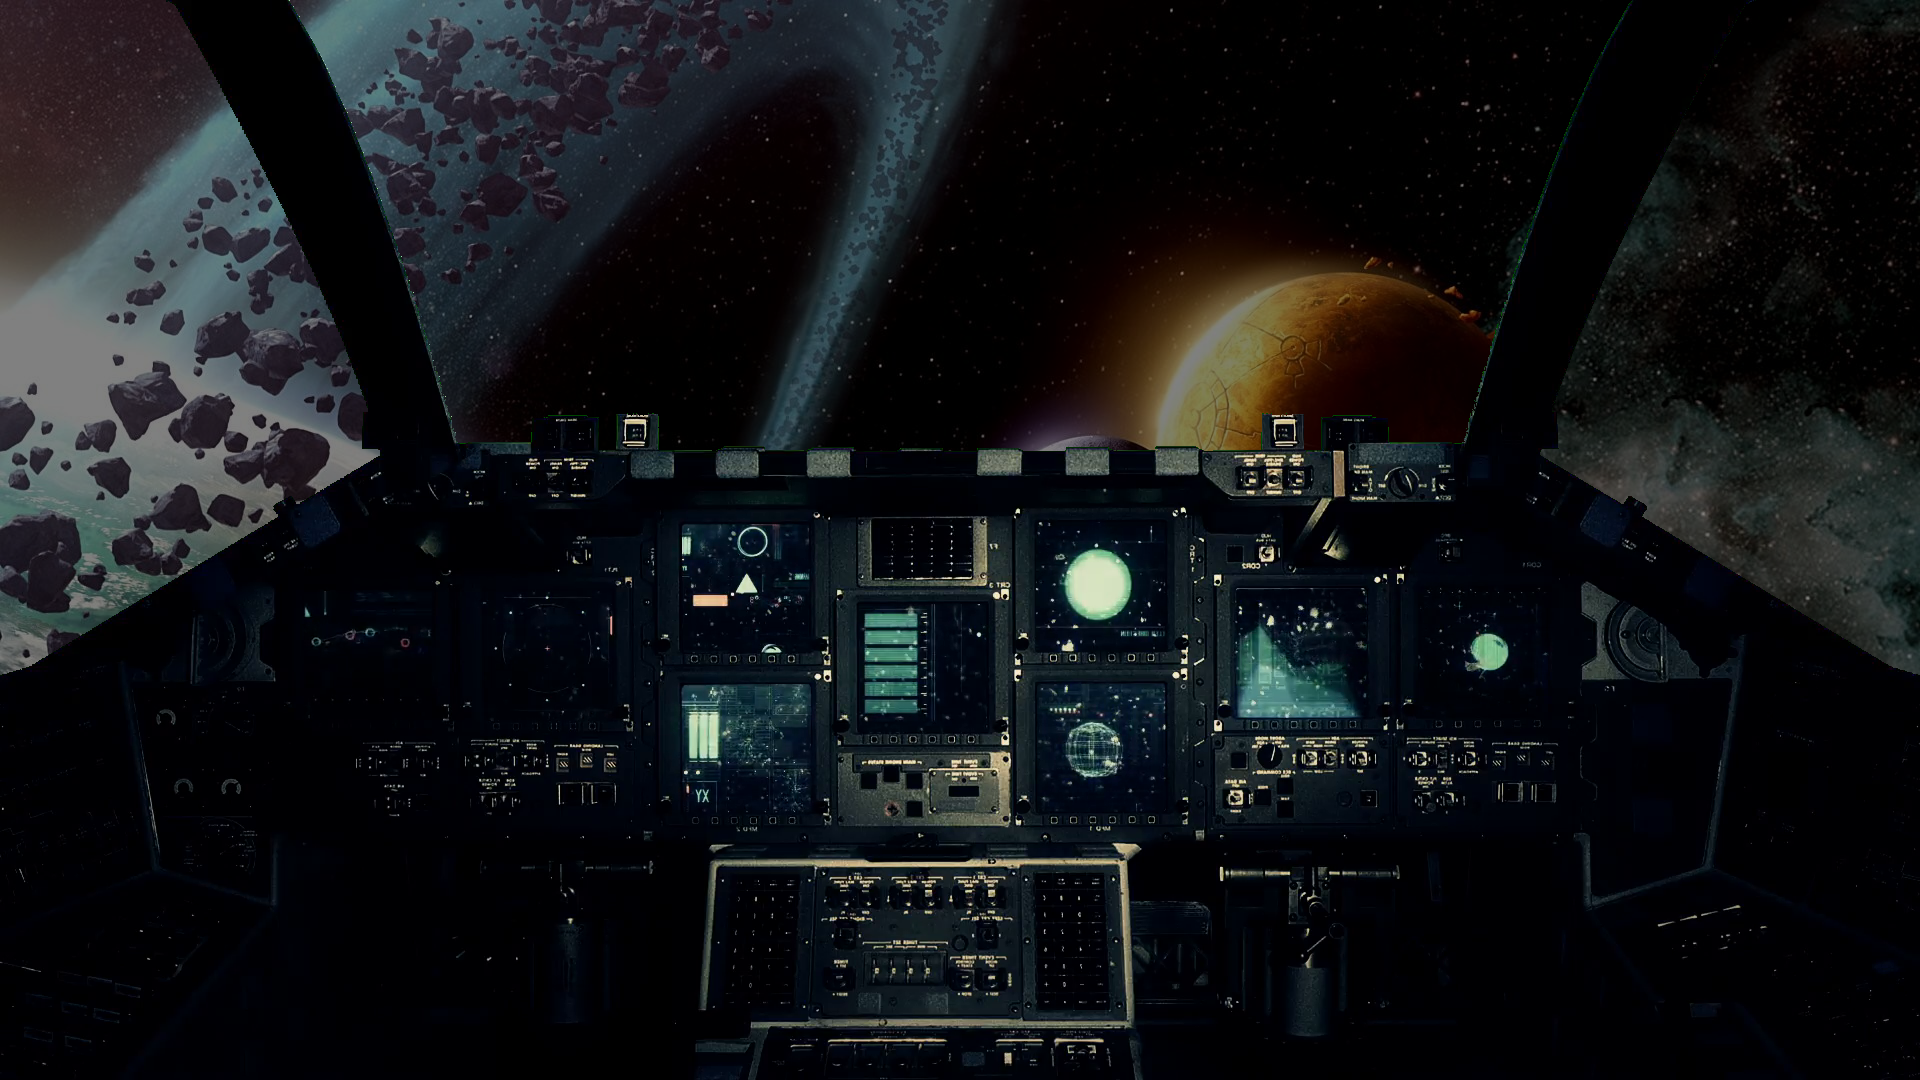
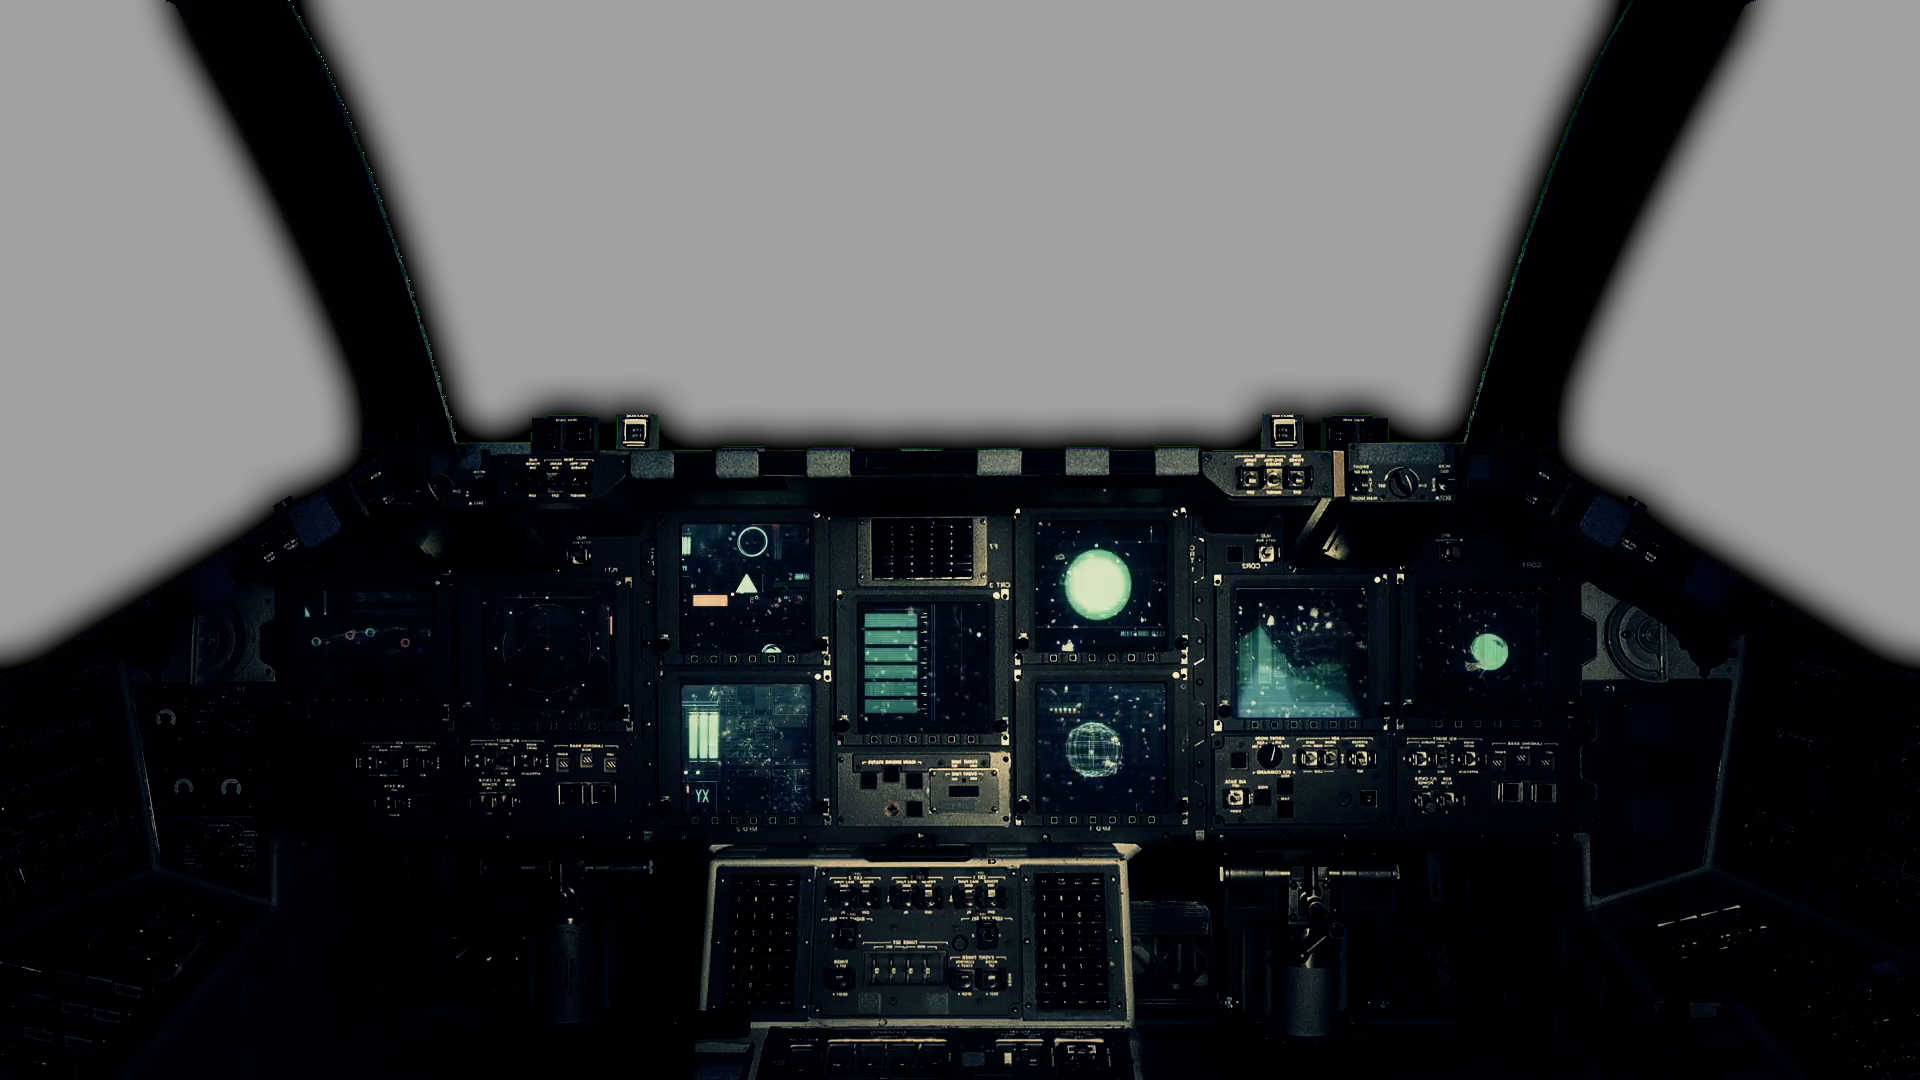
add background depth and multiples locations

diff --git a/index.html b/index.html
@@ -12,141 +12,144 @@
     <title></title>
   </head>
   <body>
-    <div class="container">
-      <div id="displayPanel" class="displayNone">
-        <p id="money">Credits Remaining: $<span id="moneyValue"> </span></p>
-        <p id="food">Rations Remaining: <span id="foodValue"> </span></p>
-        <p id="reputation">Reputation Level: <span id="reputationValue"></span></p>
+    <div class="cockpit">
+      <div class="container">
+        <div id="displayPanel" class="displayNone">
+          <p id="money">Credits Remaining: $<span id="moneyValue"> </span></p>
+          <p id="food">Rations Remaining: <span id="foodValue"> </span></p>
+          <p id="reputation">Reputation Level: <span id="reputationValue"></span></p>
+        </div>
+        <div class="row">
+          <div class="col-lg-1">
+          </div>
+          <div class="col-lg-10">
+            <div id="screen" class="card">
+              <div class="username">
+                <h3>Login:</h3>
+                <form id="nameForm" action="index.html" method="post">
+                  <input id="nameInput" type="text" placeholder="enter your name">
+                  <button type="submit"> submit</button>
+                </form>
+              </div>
+              <div class="displayNone" id="routeQuestion">
+                <p>Processing new data…<span class ='nameInput'></span>, according to my calculations, there is a shorter route traveling through the Regis-8 system. However, this is uncharted territory, and I do not have enough data to determine its safety.</p>
+              </div>
+              <div class="unchartedRoute">
+
+                <div class="displayNone" id="shipwreckQuestion">
+                  <p>I have picked up what appears to be a distress signal, but the origin does not match any technology in my database. What do you want to do, <span class ='nameInput'></span>?</p>
+                </div>
+                <div class="displayNone" id="alienQuestion">
+                  <p>My Bio-scanner indicates that there is life on board the ship, but it is not human. How do you want to proceed?</p>
+                </div>
+                <div class="displayNone" id="motherShipQuestion">
+                  <p>We are being approached by a large Starship. I am also detecting a match in bio-signature between the life-form we rescued, and those on board the Starship.</p>
+                  <p>I have no data on their technology, but my visual scanner detects what may be powerful blasting cannons</p>
+                  <p>Incoming Message: "GERARAARRR, SSSSLLLLAANNNDND"</p>
+                  <p>--Translation: No known Translation</p>
+                  <p>They are making an attempt to board the ship.</p>
+                </div>
+                <div class="displayNone" id="traderQuestion">
+                  <p>Incoming Message: “We don’t see many Star-ships out this way. Should we do business?”</p>
+                  <p>-AI: I must warn you <span class ='nameInput'></span>, my records indicate that this ship has been blacklisted by the Intergalactic Trade Bureau. There is a high risk in trading. However, it is unlikely we will find other trade opportunities while traveling through this system.</p>
+                </div>
+              </div>
+
+
+              <div class="establishedRoute">
+                <div class="displayNone" id="partyQuestion">
+                  <p><span class ='nameInput'></span>, there is unrest in the crew. It has been a long voyage, perhaps they need a morale boost?</p>
+                </div>
+                <div class="displayNone" id="QuantityParty">
+                  <p>Incoming Message: “Oy <span class ='nameInput'></span>, you gonna come throw back some space-beers with us, or what?</p>
+                </div>
+
+                <div class="displayNone" id="toastQuestion">
+                  <p>I wanted to congradulate you on your self-control <span class ='nameInput'></span>. My audio sensors have detected a 15% increase in positive remarks about you! Let's celebrate! What do you want to do?</p>
+                </div>
+                <div class="displayNone" id="autoPilot">
+                  <p>AI: <span class ='nameInput'></span>, there is a low probability of future collisions. Would you like to engage auto-pilot and cryo-sleep through the remaining voyage?</p>
+                </div>
+                <div class="displayNone" id="AI">
+                  <p>AI: An anomaly has been detected in my Empathy Module. While not critical to the mission, it is the only shred of humanity that I have. Would you please take the time to restore my ability to feel?</p>
+                </div>
+              </div>
+
+              <div class="displayNone" id="mars">
+                <p>AI: My sensors indicate that we are approaching the NewTerra System. Congratulations on a completing the mission!, <span class ='nameInput'></span>?</p>
+              </div>
+              <div class="displayNone" id="dead">
+                <p style="font-size: 100px">U ded, <span class ='nameInput'></span>?</p>
+              </div>
+
+            </div>
+          </div>
+          <div class="col-lg-1">
+          </div>
+        </div>
+        <div id="dontDeleteThisDiv">
+
+          <div id="controlPanel" class="card">
+            <button class="leftDecoButtons farLeft" type="button" name="button">0</button>
+            <button class="leftDecoButtons farLeft" type="button" name="button">0</button>
+            <button class="leftDecoButtons farLeft" type="button" name="button">0</button>
+            <button class="leftDecoButtons farLeft" type="button" name="button">0</button>
+            <button class="leftDecoButtons centerLeftTop" type="button" name="button">0</button>
+            <button class="leftDecoButtons centerLeftBottom" type="button" name="button">0</button>
+            <button class="leftDecoButtons centerTop" type="button" name="button">0</button>
+            <button class="leftDecoButtons centerBottom" type="button" name="button">0</button>
+            <button class="leftDecoButtons centerRightTop" type="button" name="button">0</button>
+            <button class="leftDecoButtons centerRightBottom" type="button" name="button">0</button>
+            <button class="leftDecoButtons farRightTop" type="button" name="button">0</button>
+            <button class="leftDecoButtons farRightBottom" type="button" name="button">0</button>
+            <button id="selfDestruct" type="button" name="button">SELF DESTRUCT</button>
+            <div id="fuelGauge">
+              <div class="c100 p50 orange">
+                <span>Fuel</span>
+                <div class="slice">
+                  <div class="bar"></div>
+                  <div class="fill"></div>
+                </div>
+              </div>
+            </div>
+
+
+            <button class="decisionButtons decisionLeft" id="established" type="button">Established Path</button>
+            <button class="decisionButtons decisionRight" id="uncharted" type="button">Uncharted Path</button>
+            <!--Uncharted  -->
+            <button class="decisionButtons decisionLeft" id="shipInvestigate" type="button">Investigate</button>
+            <button class="decisionButtons decisionRight" id="shipIgnore" type="button">Don't investigate</button>
+            <!--Alien Branch -->
+            <button class="decisionButtons decisionRight" id="rescueAlien" type="button">Send a Rescue Team</button>
+            <button class="decisionButtons decisionLeft" id="ignoreAlien" type="button">Keep Going</button>
+
+            <button class="decisionButtons decisionLeft" id="fleeShip" type="button">Try to outrun them</button>
+            <button class="decisionButtons decisionRight" id="returnAlien" type="button">Let aliens board ship</button>
+
+
+
+            <button class="decisionButtons decisionLeft" id="traderYes" type="button">Trade</button>
+            <button class="decisionButtons decisionRight" id="traderNo" type="button">Don't Trade</button>
+            <!--Charted  -->
+            <button class="decisionButtons decisionLeft" id="partyYes" type="button">Have a Party</button>
+            <button class="decisionButtons decisionRight" id="partyNo" type="button">No Party</button>
+            <button class="decisionButtons decisionLeft" id="eatToast" type="button">Eat Toast</button>
+            <button class="decisionButtons decisionRight" id="noToast" type="button">Don't Eat Toast</button>
+            <button class="decisionButtons decisionLeft" id="yesAuto" type="button">Engage Autopilot</button>
+            <button class="decisionButtons decisionRight" id="noAuto" type="button">Keep Piloting Ship</button>
+            <button class="decisionButtons decisionLeft" id="repairAI" type="button">Repair the AI</button>
+            <button class="decisionButtons decisionRight" id="noRepairAI" type="button">Don't Repair</button>
+            <button class="decisionButtons decisionLeft" id="getWasted" type="button">Rickety-rickety wrecked, son!</button>
+            <button class="decisionButtons decisionRight" id="responsible" type="button">Nah, I'm the Designated Driver</button>
+
+            <div id="radar" class="card">
+
+            </div>
+          </div>
+        </div>
+
+
       </div>
-      <div class="row">
-        <div class="col-lg-1">
-        </div>
-        <div class="col-lg-10">
-          <div id="screen" class="card">
-            <div class="username">
-              <h3>Login:</h3>
-              <form id="nameForm" action="index.html" method="post">
-                <input id="nameInput" type="text" placeholder="enter your name">
-                <button type="submit"> submit</button>
-              </form>
-            </div>
-            <div class="displayNone" id="routeQuestion">
-              <p>Processing new data…<span class ='nameInput'></span>, according to my calculations, there is a shorter route traveling through the Regis-8 system. However, this is uncharted territory, and I do not have enough data to determine its safety.</p>
-            </div>
-            <div class="unchartedRoute">
-
-              <div class="displayNone" id="shipwreckQuestion">
-                <p>I have picked up what appears to be a distress signal, but the origin does not match any technology in my database. What do you want to do, <span class ='nameInput'></span>?</p>
-              </div>
-              <div class="displayNone" id="alienQuestion">
-                <p>My Bio-scanner indicates that there is life on board the ship, but it is not human. How do you want to proceed?</p>
-              </div>
-              <div class="displayNone" id="motherShipQuestion">
-                <p>We are being approached by a large Starship. I am also detecting a match in bio-signature between the life-form we rescued, and those on board the Starship.</p>
-                <p>I have no data on their technology, but my visual scanner detects what may be powerful blasting cannons</p>
-                <p>Incoming Message: "GERARAARRR, SSSSLLLLAANNNDND"</p>
-                <p>--Translation: No known Translation</p>
-                <p>They are making an attempt to board the ship.</p>
-              </div>
-              <div class="displayNone" id="traderQuestion">
-                <p>Incoming Message: “We don’t see many Star-ships out this way. Should we do business?”</p>
-                <p>-AI: I must warn you <span class ='nameInput'></span>, my records indicate that this ship has been blacklisted by the Intergalactic Trade Bureau. There is a high risk in trading. However, it is unlikely we will find other trade opportunities while traveling through this system.</p>
-              </div>
-            </div>
-
-
-            <div class="establishedRoute">
-              <div class="displayNone" id="partyQuestion">
-                <p><span class ='nameInput'></span>, there is unrest in the crew. It has been a long voyage, perhaps they need a morale boost?</p>
-              </div>
-              <div class="displayNone" id="QuantityParty">
-                <p>Incoming Message: “Oy <span class ='nameInput'></span>, you gonna come throw back some space-beers with us, or what?</p>
-              </div>
-
-              <div class="displayNone" id="toastQuestion">
-                <p>I wanted to congradulate you on your self-control <span class ='nameInput'></span>. My audio sensors have detected a 15% increase in positive remarks about you! Let's celebrate! What do you want to do?</p>
-              </div>
-              <div class="displayNone" id="autoPilot">
-                <p>AI: <span class ='nameInput'></span>, there is a low probability of future collisions. Would you like to engage auto-pilot and cryo-sleep through the remaining voyage?</p>
-              </div>
-              <div class="displayNone" id="AI">
-                <p>AI: An anomaly has been detected in my Empathy Module. While not critical to the mission, it is the only shred of humanity that I have. Would you please take the time to restore my ability to feel?</p>
-              </div>
-            </div>
-
-            <div class="displayNone" id="mars">
-              <p>AI: My sensors indicate that we are approaching the NewTerra System. Congratulations on a completing the mission!, <span class ='nameInput'></span>?</p>
-            </div>
-            <div class="displayNone" id="dead">
-              <p style="font-size: 100px">U ded, <span class ='nameInput'></span>?</p>
-            </div>
-
-          </div>
-        </div>
-        <div class="col-lg-1">
-        </div>
-      </div>
-      <div id="dontDeleteThisDiv">
-
-        <div id="controlPanel" class="card">
-          <button class="leftDecoButtons farLeft" type="button" name="button">0</button>
-          <button class="leftDecoButtons farLeft" type="button" name="button">0</button>
-          <button class="leftDecoButtons farLeft" type="button" name="button">0</button>
-          <button class="leftDecoButtons farLeft" type="button" name="button">0</button>
-          <button class="leftDecoButtons centerLeftTop" type="button" name="button">0</button>
-          <button class="leftDecoButtons centerLeftBottom" type="button" name="button">0</button>
-          <button class="leftDecoButtons centerTop" type="button" name="button">0</button>
-          <button class="leftDecoButtons centerBottom" type="button" name="button">0</button>
-          <button class="leftDecoButtons centerRightTop" type="button" name="button">0</button>
-          <button class="leftDecoButtons centerRightBottom" type="button" name="button">0</button>
-          <button class="leftDecoButtons farRightTop" type="button" name="button">0</button>
-          <button class="leftDecoButtons farRightBottom" type="button" name="button">0</button>
-          <button id="selfDestruct" type="button" name="button">SELF DESTRUCT</button>
-          <div id="fuelGauge">
-            <div class="c100 p50 orange">
-              <span>Fuel</span>
-              <div class="slice">
-                <div class="bar"></div>
-                <div class="fill"></div>
-              </div>
-            </div>
-          </div>
-
-
-        <button class="decisionButtons decisionLeft" id="established" type="button">Established Path</button>
-        <button class="decisionButtons decisionRight" id="uncharted" type="button">Uncharted Path</button>
-        <!--Uncharted  -->
-        <button class="decisionButtons decisionLeft" id="shipInvestigate" type="button">Investigate</button>
-        <button class="decisionButtons decisionRight" id="shipIgnore" type="button">Don't investigate</button>
-        <!--Alien Branch -->
-        <button class="decisionButtons decisionRight" id="rescueAlien" type="button">Send a Rescue Team</button>
-        <button class="decisionButtons decisionLeft" id="ignoreAlien" type="button">Keep Going</button>
-
-        <button class="decisionButtons decisionLeft" id="fleeShip" type="button">Try to outrun them</button>
-        <button class="decisionButtons decisionRight" id="returnAlien" type="button">Let aliens board ship</button>
-
-
-
-        <button class="decisionButtons decisionLeft" id="traderYes" type="button">Trade</button>
-        <button class="decisionButtons decisionRight" id="traderNo" type="button">Don't Trade</button>
-        <!--Charted  -->
-        <button class="decisionButtons decisionLeft" id="partyYes" type="button">Have a Party</button>
-        <button class="decisionButtons decisionRight" id="partyNo" type="button">No Party</button>
-        <button class="decisionButtons decisionLeft" id="eatToast" type="button">Eat Toast</button>
-        <button class="decisionButtons decisionRight" id="noToast" type="button">Don't Eat Toast</button>
-        <button class="decisionButtons decisionLeft" id="yesAuto" type="button">Engage Autopilot</button>
-        <button class="decisionButtons decisionRight" id="noAuto" type="button">Keep Piloting Ship</button>
-        <button class="decisionButtons decisionLeft" id="repairAI" type="button">Repair the AI</button>
-        <button class="decisionButtons decisionRight" id="noRepairAI" type="button">Don't Repair</button>
-        <button class="decisionButtons decisionLeft" id="getWasted" type="button">Rickety-rickety wrecked, son!</button>
-        <button class="decisionButtons decisionRight" id="responsible" type="button">Nah, I'm the Designated Driver</button>
-
-        <div id="radar" class="card">
-
-          </div>
-        </div>
-    </div>
-
 
     </div>
   </body>

diff --git a/css/styles.css b/css/styles.css
@@ -8,12 +8,20 @@
   animation-delay:4.5s;
 }
 body {
-  background-image: url(../img/cockpit.png);
+  background-image: url(../img/start.png);
   background-size: cover;
   background-position: center;
   min-width: 100vw;
   min-height: 100vh;
   font-family: 'Sarpanch', sans-serif;
+}
+
+.cockpit {
+  background-image: url(../img/cockpit.png);
+  background-size: cover;
+  background-position: center;
+  min-width: 100vw;
+  min-height: 100vh;
 }
 
 #displayPanel {
